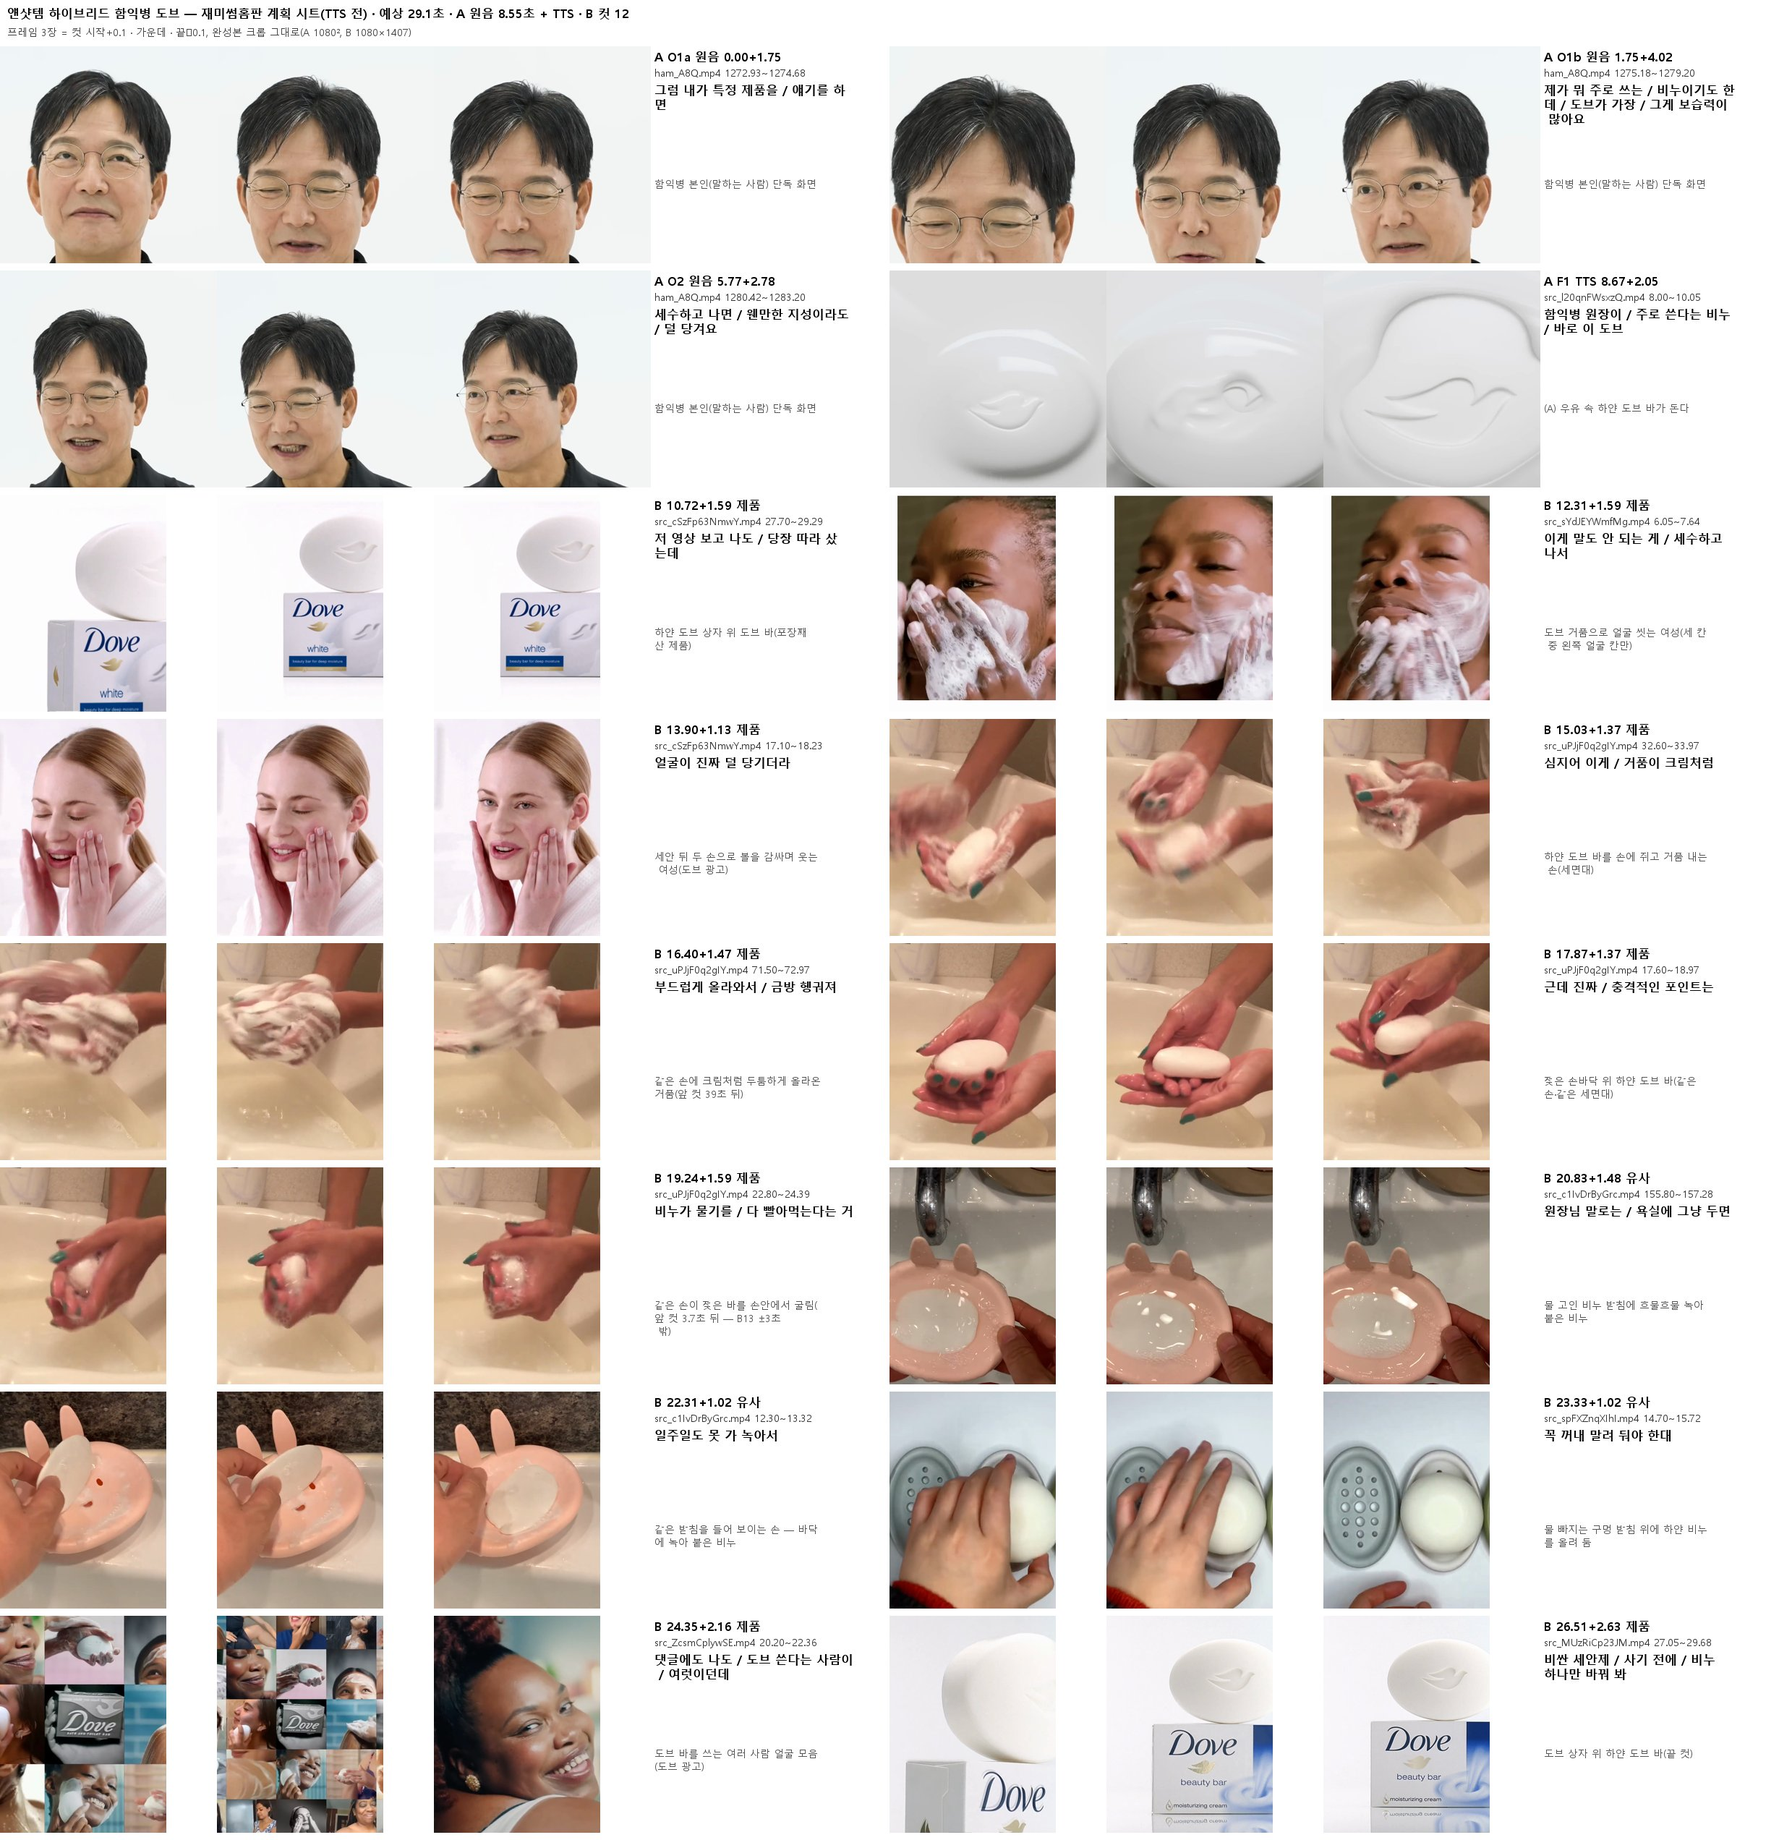
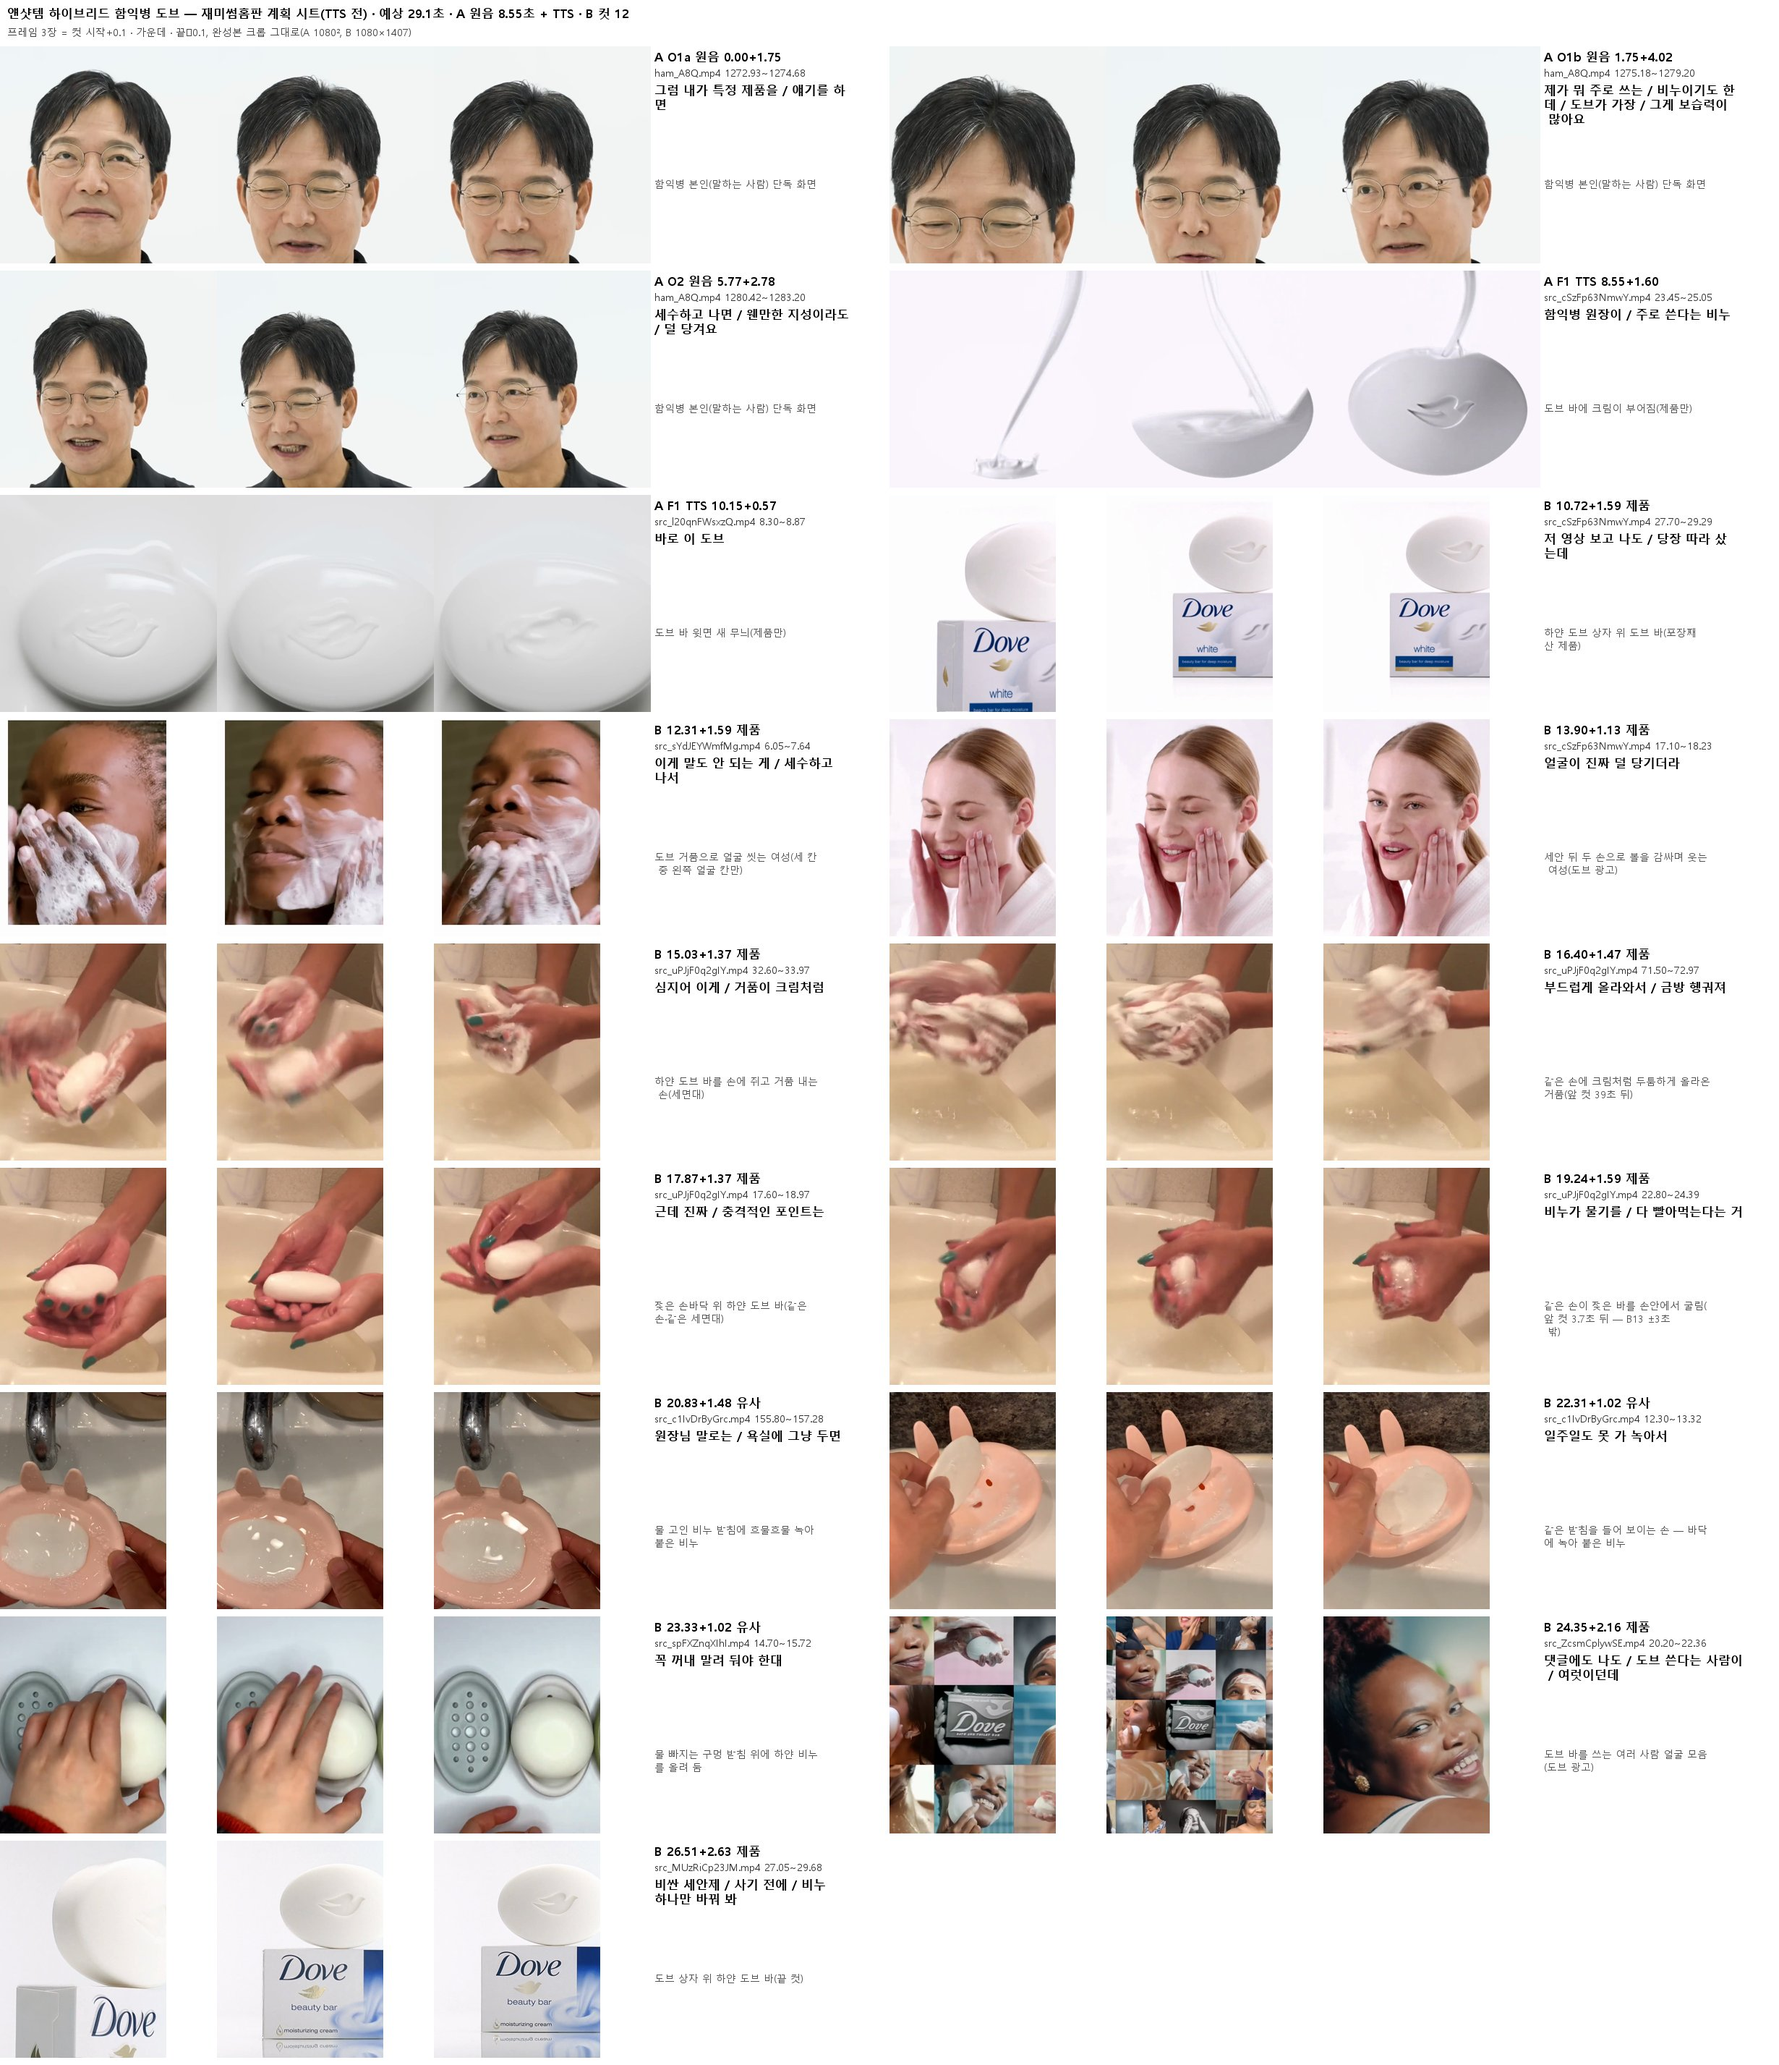
얜샷템 하이브리드 2호 함익병 도브 재미썸홈판: 원음 O1a·O1b·O2(제철건강 A8Q, MC '네' 2곳 뺌)+필재 TTS 1회(F1 한마디+B 나레, atempo 1.27·끝 문장 1.15, tts_pause 쉼) · A 얜샷템 틀 '출처 : 제철건강' + B 재미썸홈 t11 body_all 12컷 · 28.93초 −14.1 LUFS 8.87자/초 · check_seams 0 · 원음 받아쓰기 2회 본인 말 · B표 줄별 대조 · MD5 531ae3d6 (관제 097)
Claude-Session: https://claude.ai/code/session_01XyPA8AgSD2J8UjfhcqxXRx

diff --git a/channel/yanshottem/하이브리드_함익병/재미썸홈판/render_hybrid.py b/channel/yanshottem/하이브리드_함익병/재미썸홈판/render_hybrid.py
@@ -121,7 +121,8 @@ def main():
     a_shots, t = [], 0.0
     for (name, a, b), (ss, crop) in zip(M.ORIG, M.A_SHOTS):
         a_shots.append({"t0": t, "t1": t + (b - a), "src": M.HAM, "ss": ss, "crop": crop}); t += b - a
-    a_shots.append({"t0": t, "t1": A_end, "src": M.F1_SHOT[0], "ss": M.F1_SHOT[1], "crop": M.F1_SHOT[2]})
+    a_shots.append({"t0": t, "t1": T[2][0], "src": M.F1_SHOT[0], "ss": M.F1_SHOT[1], "crop": M.F1_SHOT[2]})
+    a_shots.append({"t0": T[2][0], "t1": A_end, "src": M.F1_SHOT2[0], "ss": M.F1_SHOT2[1], "crop": M.F1_SHOT2[2]})
     parts = []
     for k, s in enumerate(a_shots):
         nf = fr(s["t1"]) - fr(s["t0"])
@@ -234,6 +235,8 @@ def main():
     pname, pdir = SP.pack_for(0)
     pack = {"name": pname, "dir": pdir, "density": "low", "level": "normal", "mute_beats": []}
     evs = SP.events(stl, pack)
+    # 오프너(B 시작 +0.06초)가 다리 첫 말 '저 영상'을 덮어 받아쓰기가 '정말 보고'로 들림(10-17 실측, 나레 단독은 '저 영상') → 틀이 바뀌는 쉼 안(−0.25초)으로 당긴다
+    evs = [(pth, (-0.25 if Path(pth).stem == "opener" else tt), mul) for pth, tt, mul in evs]
     (R / "sfx_events.json").write_text(json.dumps({"pack": pname, "plan": SP.plan_events(stl, density="low"), "events": evs, "timeline": stl, "offset": A_end},
                                                   ensure_ascii=False, indent=1), encoding="utf-8")
     # BGM(A만): 나레 중앙보다 11dB 아래(박세리 편 −16 대비 −27), 원음 창 덕킹, A 끝 0.5초 페이드아웃

diff --git a/channel/yanshottem/하이브리드_함익병/재미썸홈판/B표.md b/channel/yanshottem/하이브리드_함익병/재미썸홈판/B표.md
@@ -1,0 +1,57 @@
+# B표 — 얜샷템 하이브리드 2호 함익병 도브 비누 · 재미썸홈판 (관제 097, 2026-10-17)
+
+완성본 `C:/숏템_칼카피/yanshottem/하이브리드_함익병/재미썸홈판/render/final.mp4` = 바탕화면 `칼카피영상/얜샷템/칼카피_얜샷템_함익병도브_재미썸홈판.mp4`
+MD5 `531ae3d63589253a9ad9ecf92e58fa73`(둘 같음) · 28.93초 · −14.1 LUFS · 최고 −3.7 dBFS · 1초 시트 `plan/완성본_1초시트.jpg` · 계획 시트 `plan/계획_시트.jpg`
+렌더 = `make.py`(시각·재료의 주인) + `render_hybrid.py`(엔진 shot_clip·emph_png·scene_style.compose·tts_pause.shape·sfx_pack 호출만).
+
+## 줄별 대조표 (대사 | 화면 | 판정)
+| 초 | 대사(자막) | 화면(소스 구간) | 판정 |
+|---|---|---|---|
+| 0.00–1.75 | [원음] 그럼 내가 특정 제품을 / 얘기를 하면 | 함익병 본인 정면(A8Q 1272.93~) | ○ 말하는 본인 |
+| 1.75–5.77 | [원음] 제가 뭐 주로 쓰는 / 비누이기도 한데 / 도브가 가장 / 그게 보습력이 많아요 | 본인 근접(A8Q 1275.18~, MC '네' 0.5초 뺀 이음매를 확대로 가림 · 3.6초 확대는 원본 편집) | ○ |
+| 5.77–8.55 | [원음] 세수하고 나면 / 웬만한 지성이라도 / 덜 당겨요 | 본인 정면(A8Q 1280.42~, '써 보면'+MC '네' 뺌) | ○ |
+| 8.55–10.10 | [TTS] 함익병 원장이 / 주로 쓴다는 비누 | 도브 바에 크림이 부어짐(Dove PH cSz 23.45~, 제품만) | ○ 제품 등장 |
+| 10.10–10.87 | [TTS] 바로 이 도브 | 도브 바 윗면 새 무늬 근접(Dove KR l20q 8.30~) | ○ |
+| 10.91–12.41 | 저 영상 보고 나도 / 당장 따라 샀는데 | 도브 상자 위 하얀 바(cSz 27.70~) — 재미썸홈 틀 시작 | ○ 산 제품 |
+| 12.41–13.88 | 이게 말도 안 되는 게 / 세수하고 나서 | 도브 거품으로 얼굴 씻는 여성(sYd 6.05~, 세 칸 중 얼굴 칸) | ○ 세수 |
+| 13.88–15.11 | 얼굴이 진짜 덜 당기더라 | 세안 뒤 두 손으로 볼 감싸며 웃는 여성(cSz 17.10~) | △ '덜 당김'은 표정·볼 만짐으로만(느낌은 화면에 직접 안 보임) |
+| 15.11–16.14 | 심지어 이게 / 거품이 크림처럼 | 하얀 도브 바를 쥐고 거품 내는 손(uPJ 32.6~) | ○ |
+| 16.14–17.55 | 부드럽게 올라와서 / 금방 헹궈져 | 같은 손에 두툼한 거품(uPJ 71.5~) | △ '헹궈져'(헹굼) 장면은 없음 — 거품만 |
+| 17.55–18.93 | 근데 진짜 / 충격적인 포인트는 | 젖은 손바닥 위 하얀 도브 바(uPJ 17.6~) | ○ |
+| 18.93–21.11 | 비누가 물기를 / 다 빨아먹는다는 거 | 같은 손이 젖은 바를 굴림(uPJ 22.8~) | ○ 젖은 비누 |
+| 21.11–22.39 | 원장님 말로는 / 욕실에 그냥 두면 | 물 고인 받침에 녹아 붙은 비누(c1I 155.8~, 유사) | ○ |
+| 22.39–23.28 | 일주일도 못 가 녹아서 | 받침을 들어 보임 — 바닥에 녹아 붙은 비누(c1I 12.3~) | ○ |
+| 23.28–24.47 | 꼭 꺼내 말려 둬야 한대 | 물 빠지는 구멍 받침에 하얀 비누를 올림(spF 14.7~, 유사) | ○ |
+| 24.47–26.72 | 댓글에도 나도 / 도브 쓴다는 사람이 / 여럿이던데 | 도브 바 쓰는 여러 사람 얼굴 모음 → 웃는 여성(Zcs 20.2~) | ○ '여럿' |
+| 26.72–28.93 | 비싼 세안제 / 사기 전에 / 비누 하나만 바꿔 봐 | 도브 상자 위 하얀 바(MUz 27.05~, 끝 컷 2.27초) | ○ |
+
+## B표
+| # | 항목 | 값 | 판정 |
+|---|---|---|---|
+| B1 | 길이 | 28.93초(지휘 목표 약 30초 · 재미썸홈 23.0~31.2 안) | ○ |
+| B2 | LUFS·최고점 | −14.1 / −3.7 dBFS(얜샷템 −16·재미썸홈 −13.4 사이 한 크기 — 두 틀 나레 크기 같게) | ○ (기준 둘 사이 — 페이블 판단 칸) |
+| B3 | 말속도 | 8.87자/초(목표 8.8, +0.8%) · 필재 tempo 1.25 + atempo 1.27(끝 문장만 1.15) | ○ |
+| B4 | 컷 중앙 | B 계획 컷 12개 중앙 1.40초(재미썸홈 작품1 수정3 1.10·원본 0.93 — 느린 쪽) · 끝 컷 2.27초 · A 원음 컷 1.75/4.02/2.78 | ○ (빠르지 않음) |
+| B5 | 꾸밈이 얼굴 가림 | 꾸밈 없음 | ○ |
+| B6 | 짤·같은 사진 되풀이 | 짤 0 · 같은 사진 0 | ○ |
+| B7 | 자막 잔존 | 경계 프레임 30장(8.50~10.95·B 조각 시작+0.04초·끝) 눈 확인 — 앞 조각 재등장 0, 원음 끝 8.55~8.67 빈칸 | ○ |
+| B8 | 원음 구간 말소리 | A 원음 = 본인 말만(받아쓰기 speakers 1 ×2). B 재료 원음 전부 끔 | ○ |
+| B9 | 첫·끝 컷 밝기 | Y 116.5 / 192.2 | ○ |
+| B10 | 주피사체 가운데 | 끝 컷 도브 바·상자 가운데 | ○ |
+| B11 | 바탕화면 MD5 | 531ae3d6… 둘 같음 | ○ |
+| B12 | compare ① | 하이브리드는 벤치 원본 없음 — 해당 없음(도구 대상 아님) | — |
+| B13 | 같은 장면 중복 | 같은 소스 겹침 0. uPJ 17.6–19.0 / 22.8–24.97 / 32.6–33.6 / 71.5–72.9(간격 ≥3.8초). A8Q 원음 3구간은 이어지는 말(겹침 0, MC 말만 뺌) | ○ |
+| B14 | 효과음 | sfx_pack 팩21 density low 8발(B만) · 오프너는 틀 바뀌는 쉼(B −0.25초)으로 당김('저 영상' 가림 실측) | ○ |
+| B15 | 줄별 말속도 | 줄 머리~다음 줄 머리 8.1/9.33/8.9/10.23/7.3/9.22/8.47/10.74 — 끝 문장은 TTS가 빨리 읽어 그 줄만 atempo 1.15(나머지 1.27) | ○ |
+| B16 | A-B-A 끼움 | 0(본인→본인→본인→제품→제품 / B는 소스 묶음 순서) | ○ |
+| B16' | check_seams 되감김 | A 틀 창: 되감김 0·점프줌 4(1.73 내 이음매·3.6 원본 편집·5.77 내 이음매·24.9 Zcs 원본) 판정 없음 rc=0 / B 창: 되감김 0 rc=0 | ○ |
+| B17 | TTS 말투 | 최장 문장 31자(≤35) · 줄별 atempo 차 −9.4%(≤10%) · TTS 1회(narr_full.mp3) | ○ |
+| B17' | 원음 알아들림 | 완성본 0~8.55 단독 받아쓰기 2회(3-flash·flash-latest) = "그럼 내가 특정 제품을 얘기를 하면 제가 뭐 주로 쓰는 비누이기도 한데 도브가 가장 그게 보습력이 많아요 세수하고 나면 웬만한 지성이라도 덜 당겨요" — 원본 자막과 같음 | ○ |
+| B18 | 쉼 | 쉼표 0.22·마침표 0.30(엔진 tts_pause.shape, 문장부호 8자리만) | ○ |
+| A13 | 읽는 글 말하듯 / 원음 구간 남의 신체 | 조사·어미 다 있음(명사 3연속 없음) / 원음 3구간 화면 = 본인만, TTS 한마디 화면 = 제품만 | ○ |
+
+## 남은 흠
+- 13.88 '얼굴이 진짜 덜 당기더라'·16.14 '금방 헹궈져'는 감상이라 화면이 그대로 보여 줄 수 없음(△ 2줄).
+- 1.73·5.77 이음매(MC '네' 두 곳 뺌)는 같은 장면 확대 바꿈으로 가렸다 — 점프줌 2곳(판정 없음, 사람 편집 수준).
+- 재료 유사 2컷(c1I·spF 받침·비누는 도브 아님 — 상표 안 보임).
+- 출처 표기 '출처 : 제철건강'은 A(얜샷템 틀)에만 — B(재미썸홈 틀)는 원음 없음.
